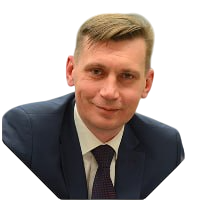
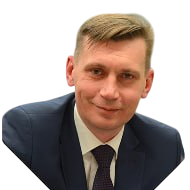
feat: add image gallery, update experts, links

diff --git a/src/widgets/experts/lib/constants.ts b/src/widgets/experts/lib/constants.ts
@@ -4,6 +4,7 @@ import exp2 from '@shared/assets/images/experts/exp-2.png';
 import exp3 from '@shared/assets/images/experts/exp-3.png';
 import exp4 from '@shared/assets/images/experts/exp-4.png';
 import exp5 from '@shared/assets/images/experts/exp-5.png';
+import exp6 from '@shared/assets/images/experts/exp-6.png';
 import exp8 from '@shared/assets/images/experts/exp-8.png';
 import exp9 from '@shared/assets/images/experts/exp-9.png';
 import exp10 from '@shared/assets/images/experts/exp-10.png';
@@ -12,6 +13,8 @@ import exp14 from '@shared/assets/images/experts/exp-14.png';
 import exp15 from '@shared/assets/images/experts/exp-15.png';
 import exp16 from '@shared/assets/images/experts/exp-16.png';
 import exp17 from '@shared/assets/images/experts/exp-17.png';
+import exp18 from '@shared/assets/images/experts/exp-18.png';
+import exp19 from '@shared/assets/images/experts/exp-19.png';
 
 import { IExpert } from './types';
 
@@ -21,14 +24,14 @@ export const MAIN_EXPERTS: readonly IExpert[] = [
 		title: 'Беляков Евгений',
 		description:
 			'Руководитель по развитИю дисциплины «Петрофизика» НТЦ «Газпром нефти»',
-		imageSrc: ''
+		imageSrc: exp18
 	},
 	{
 		id: 2,
 		title: 'Яценко Владислав ',
 		description:
 			'Заместитель начальника управления геолого- гидродинамического моделирования и экспертизы ПАО «Роснефть»',
-		imageSrc: ''
+		imageSrc: exp5
 	}
 ];
 
@@ -44,7 +47,7 @@ export const EXPERTS: readonly IExpert[] = [
 		id: 6,
 		title: 'Арсибеков Антон',
 		description: 'Руководитель отдела, эксперт по рок-физике ООО «ТКШ»',
-		imageSrc: ''
+		imageSrc: exp6
 	},
 	{
 		id: 10,
@@ -137,15 +140,15 @@ export const EXPERTS: readonly IExpert[] = [
 		imageSrc: exp2
 	},
 	{
+		id: 19,
+		title: 'Чашков Анатолий',
+		description: 'Эксперт по петрофизике ПАО «НОВАТЭК»',
+		imageSrc: exp19
+	},
+	{
 		id: 16,
 		title: 'Шуматбаев Кирилл',
 		description: 'Главный эксперт ДРМ СП «Татнефть-Добыча» «ТатНИПИнефть»',
 		imageSrc: exp16
-	},
-	{
-		id: 5,
-		title: 'Яценко Владислав',
-		description: 'Заместитель начальника управления ПАО «Роснефть»',
-		imageSrc: exp5
 	}
 ];

diff --git a/src/widgets/info/ui/info/info.tsx b/src/widgets/info/ui/info/info.tsx
@@ -131,12 +131,35 @@ export const Info = () => {
 						<li className={styles.info__list_item}>
 							<Accordion key={2} title="Подать тезисы">
 								<div className={styles.deadline}>
-									Участникам, желающим представить свои доклады на конференции
+									<p>
+										Участникам, желающим представить свои доклады на конференции
+										«Петрофизика 21», необходимо <b>до 01.08.2025</b> пройти
+										регистрацию и отправить тезисы на сайте <b>Геомодель</b>.
+									</p>
+									<p>
+										По вопросам регистрации можно обращаться -{' '}
+										<a href="mailto:registration@geomodel.ru">
+											<b>registration@geomodel.ru.</b>
+										</a>
+									</p>
+									<p>
+										По вопросам подачи тезисов -{' '}
+										<a href="mailto:events@geomodel.ru">
+											<b>events@geomodel.ru.</b>
+										</a>
+									</p>
+									<p>
+										По общим организационным вопросам -{' '}
+										<a href="mailto:pp21.conf@yandex.ru">
+											<b>pp21.conf@yandex.ru</b>
+										</a>
+									</p>
+									{/* Участникам, желающим представить свои доклады на конференции
 									«Петрофизика 21», необходимо <b>до 01.08.2025</b> пройти
 									регистрацию (<b>registration@geomodel.ru</b>) и отправить
 									тезисы в организационный комитет по почтe
 									<b> events@geomodel.ru</b>
-									или на сайте <b>Геомодель</b>.
+									или на сайте <b>Геомодель</b>. */}
 								</div>
 								<div className={styles.links}>
 									<Link

diff --git a/src/widgets/gallery/lib/constants.ts b/src/widgets/gallery/lib/constants.ts
@@ -1,0 +1,67 @@
+/* eslint-disable import/no-internal-modules */
+
+import img1 from '@shared/assets/images/gallery/1-min.jpg';
+import img2 from '@shared/assets/images/gallery/2-min.jpg';
+import img3 from '@shared/assets/images/gallery/3-min.jpg';
+import img4 from '@shared/assets/images/gallery/4-min.jpg';
+import img5 from '@shared/assets/images/gallery/5-min.jpg';
+import img6 from '@shared/assets/images/gallery/6-min.jpg';
+import img7 from '@shared/assets/images/gallery/7-min.jpg';
+import img8 from '@shared/assets/images/gallery/8-min.jpg';
+import img9 from '@shared/assets/images/gallery/9-min.jpg';
+import img10 from '@shared/assets/images/gallery/10-min.jpg';
+import img11 from '@shared/assets/images/gallery/11-min.jpg';
+import img12 from '@shared/assets/images/gallery/12-min.jpg';
+
+import { IGalleryItem } from './types';
+
+export const GALLERY_ITEMS: Array<IGalleryItem> = [
+	{
+		id: 1,
+		src: img1
+	},
+	{
+		id: 2,
+		src: img2
+	},
+	{
+		id: 3,
+		src: img3
+	},
+	{
+		id: 4,
+		src: img4
+	},
+	{
+		id: 5,
+		src: img5
+	},
+	{
+		id: 6,
+		src: img6
+	},
+	{
+		id: 7,
+		src: img7
+	},
+	{
+		id: 8,
+		src: img8
+	},
+	{
+		id: 9,
+		src: img9
+	},
+	{
+		id: 10,
+		src: img10
+	},
+	{
+		id: 11,
+		src: img11
+	},
+	{
+		id: 12,
+		src: img12
+	}
+];

diff --git a/src/widgets/gallery/ui/gallery.tsx b/src/widgets/gallery/ui/gallery.tsx
@@ -1,0 +1,32 @@
+import Marquee from 'react-fast-marquee';
+
+import { GALLERY_ITEMS } from '../lib';
+
+import styles from './gallery.module.scss';
+
+export const Gallery = () => {
+	return (
+		<div className={styles.gallery}>
+			<div className={styles.gallery__wrapper}>
+				<div className={styles.gallery__info}>
+					<h5 className={styles.gallery__title}>
+						Конференция «Петрофизика XXI»
+					</h5>
+					<p className={styles.gallery__date}>17-19 мая 2023, Тюмень</p>
+				</div>
+				<Marquee loop={0} speed={30}>
+					<div className={styles.gallery__items}>
+						{GALLERY_ITEMS.map(item => (
+							<img
+								className={styles.gallery__image}
+								key={item.id}
+								src={item.src}
+								alt={item.id.toString()}
+							/>
+						))}
+					</div>
+				</Marquee>
+			</div>
+		</div>
+	);
+};

diff --git a/src/widgets/gallery/ui/gallery.module.scss b/src/widgets/gallery/ui/gallery.module.scss
@@ -1,0 +1,46 @@
+.gallery {
+	&__wrapper {
+		position: relative;
+	}
+
+	&__info {
+		position: absolute;
+		z-index: 1000;
+		top: 10rem;
+		left: 0;
+
+		display: flex;
+		flex-direction: column;
+	}
+
+	&__title,
+	&__date {
+		width: max-content;
+		padding: 0 15rem;
+
+		font-size: 16rem;
+		line-height: 1.5;
+		text-transform: uppercase;
+	}
+
+	&__title {
+		color: $black-color;
+		background: $white-color;
+	}
+
+	&__date {
+		color: $white-color;
+		background: $black-color;
+	}
+
+	&__items {
+		display: flex;
+		align-items: center;
+	}
+
+	&__image {
+		height: 300rem;
+		object-fit: cover;
+		object-position: top center;
+	}
+}

diff --git a/src/widgets/header/header.tsx b/src/widgets/header/header.tsx
@@ -57,9 +57,13 @@ export const Header = () => {
 									styles['menu__list_item--multiple']
 								)}
 							>
-								<a className={styles.menu__list_link} href="/#contacts">
-									Контакты
-								</a>
+								<Link
+									className={styles.menu__list_link}
+									to="https://t.me/pp21_conf"
+									target="_blank"
+								>
+									@pp21_conf
+								</Link>
 								<Link
 									className={styles.menu__list_link}
 									to="https://api.whatsapp.com/send/?phone=79520369998"

diff --git a/src/pages/main/main.tsx b/src/pages/main/main.tsx
@@ -8,6 +8,7 @@ import { Info } from '@widgets/info';
 import { Conferences } from '@widgets/conferences';
 import { Footer } from '@widgets/footer';
 import { Directions } from '@widgets/directions';
+import { Gallery } from '@widgets/gallery';
 
 import styles from './main.module.scss';
 
@@ -21,6 +22,7 @@ export const Main = () => {
 				<Directions />
 				<Registration />
 				<Partners />
+				<Gallery />
 				<Registration />
 				<Info />
 				<Conferences />

diff --git a/src/widgets/info/ui/info/info.module.scss b/src/widgets/info/ui/info/info.module.scss
@@ -246,6 +246,15 @@
 .deadline {
 	margin-bottom: 10rem;
 	font-size: 12rem;
+
+	a {
+		color: inherit;
+		text-decoration: none;
+	}
+
+	p + p {
+		margin-top: 5rem;
+	}
 }
 
 .links {

diff --git a/src/widgets/experts/ui/expert-item/expert-item.module.scss b/src/widgets/experts/ui/expert-item/expert-item.module.scss
@@ -28,7 +28,7 @@
 		height: 100%;
 
 		object-fit: cover;
-		object-position: top center;
+		object-position: bottom center;
 
 		&--empty {
 			width: 75%;

diff --git a/src/widgets/header/header.module.scss b/src/widgets/header/header.module.scss
@@ -76,6 +76,7 @@
 		color: inherit;
 		text-align: center;
 		text-decoration: none;
+		text-transform: uppercase;
 	}
 
 	&__list_icon {

diff --git a/src/widgets/gallery/lib/index.ts b/src/widgets/gallery/lib/index.ts
@@ -1,0 +1,2 @@
+export { GALLERY_ITEMS } from './constants';
+export type { IGalleryItem } from './types';

diff --git a/src/widgets/gallery/lib/types.ts b/src/widgets/gallery/lib/types.ts
@@ -1,0 +1,4 @@
+export interface IGalleryItem {
+	id: number;
+	src: string;
+}
